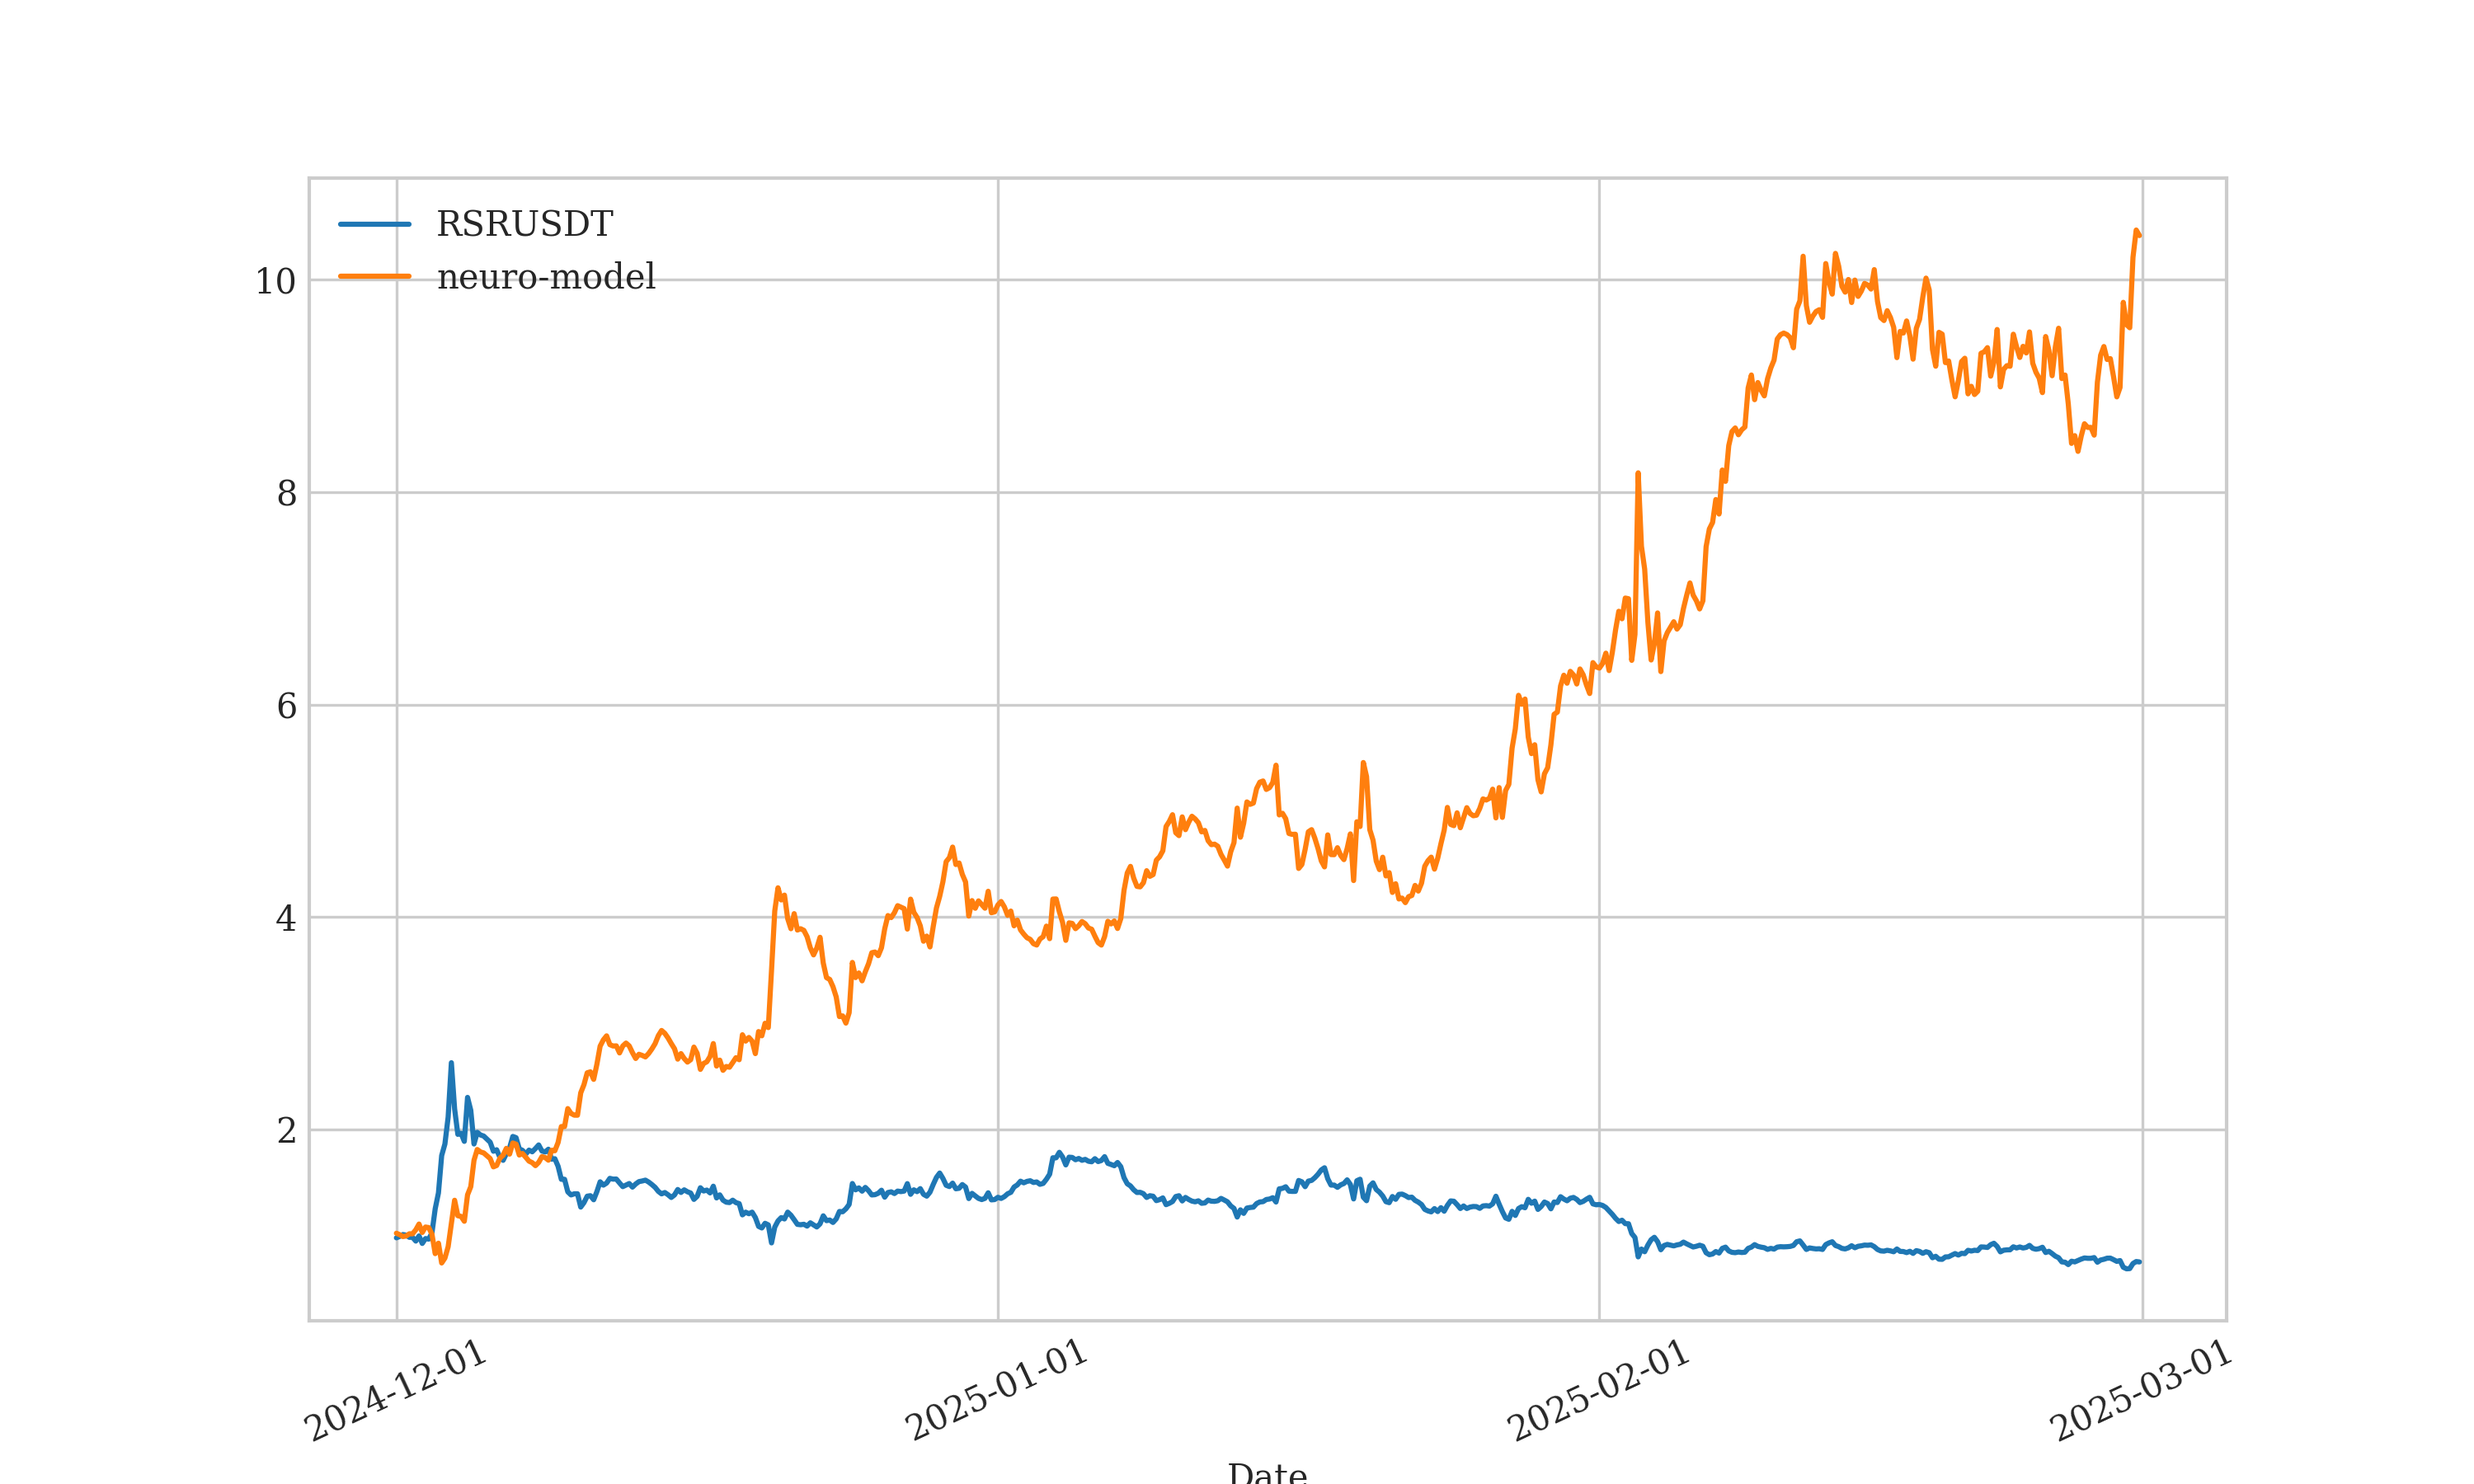
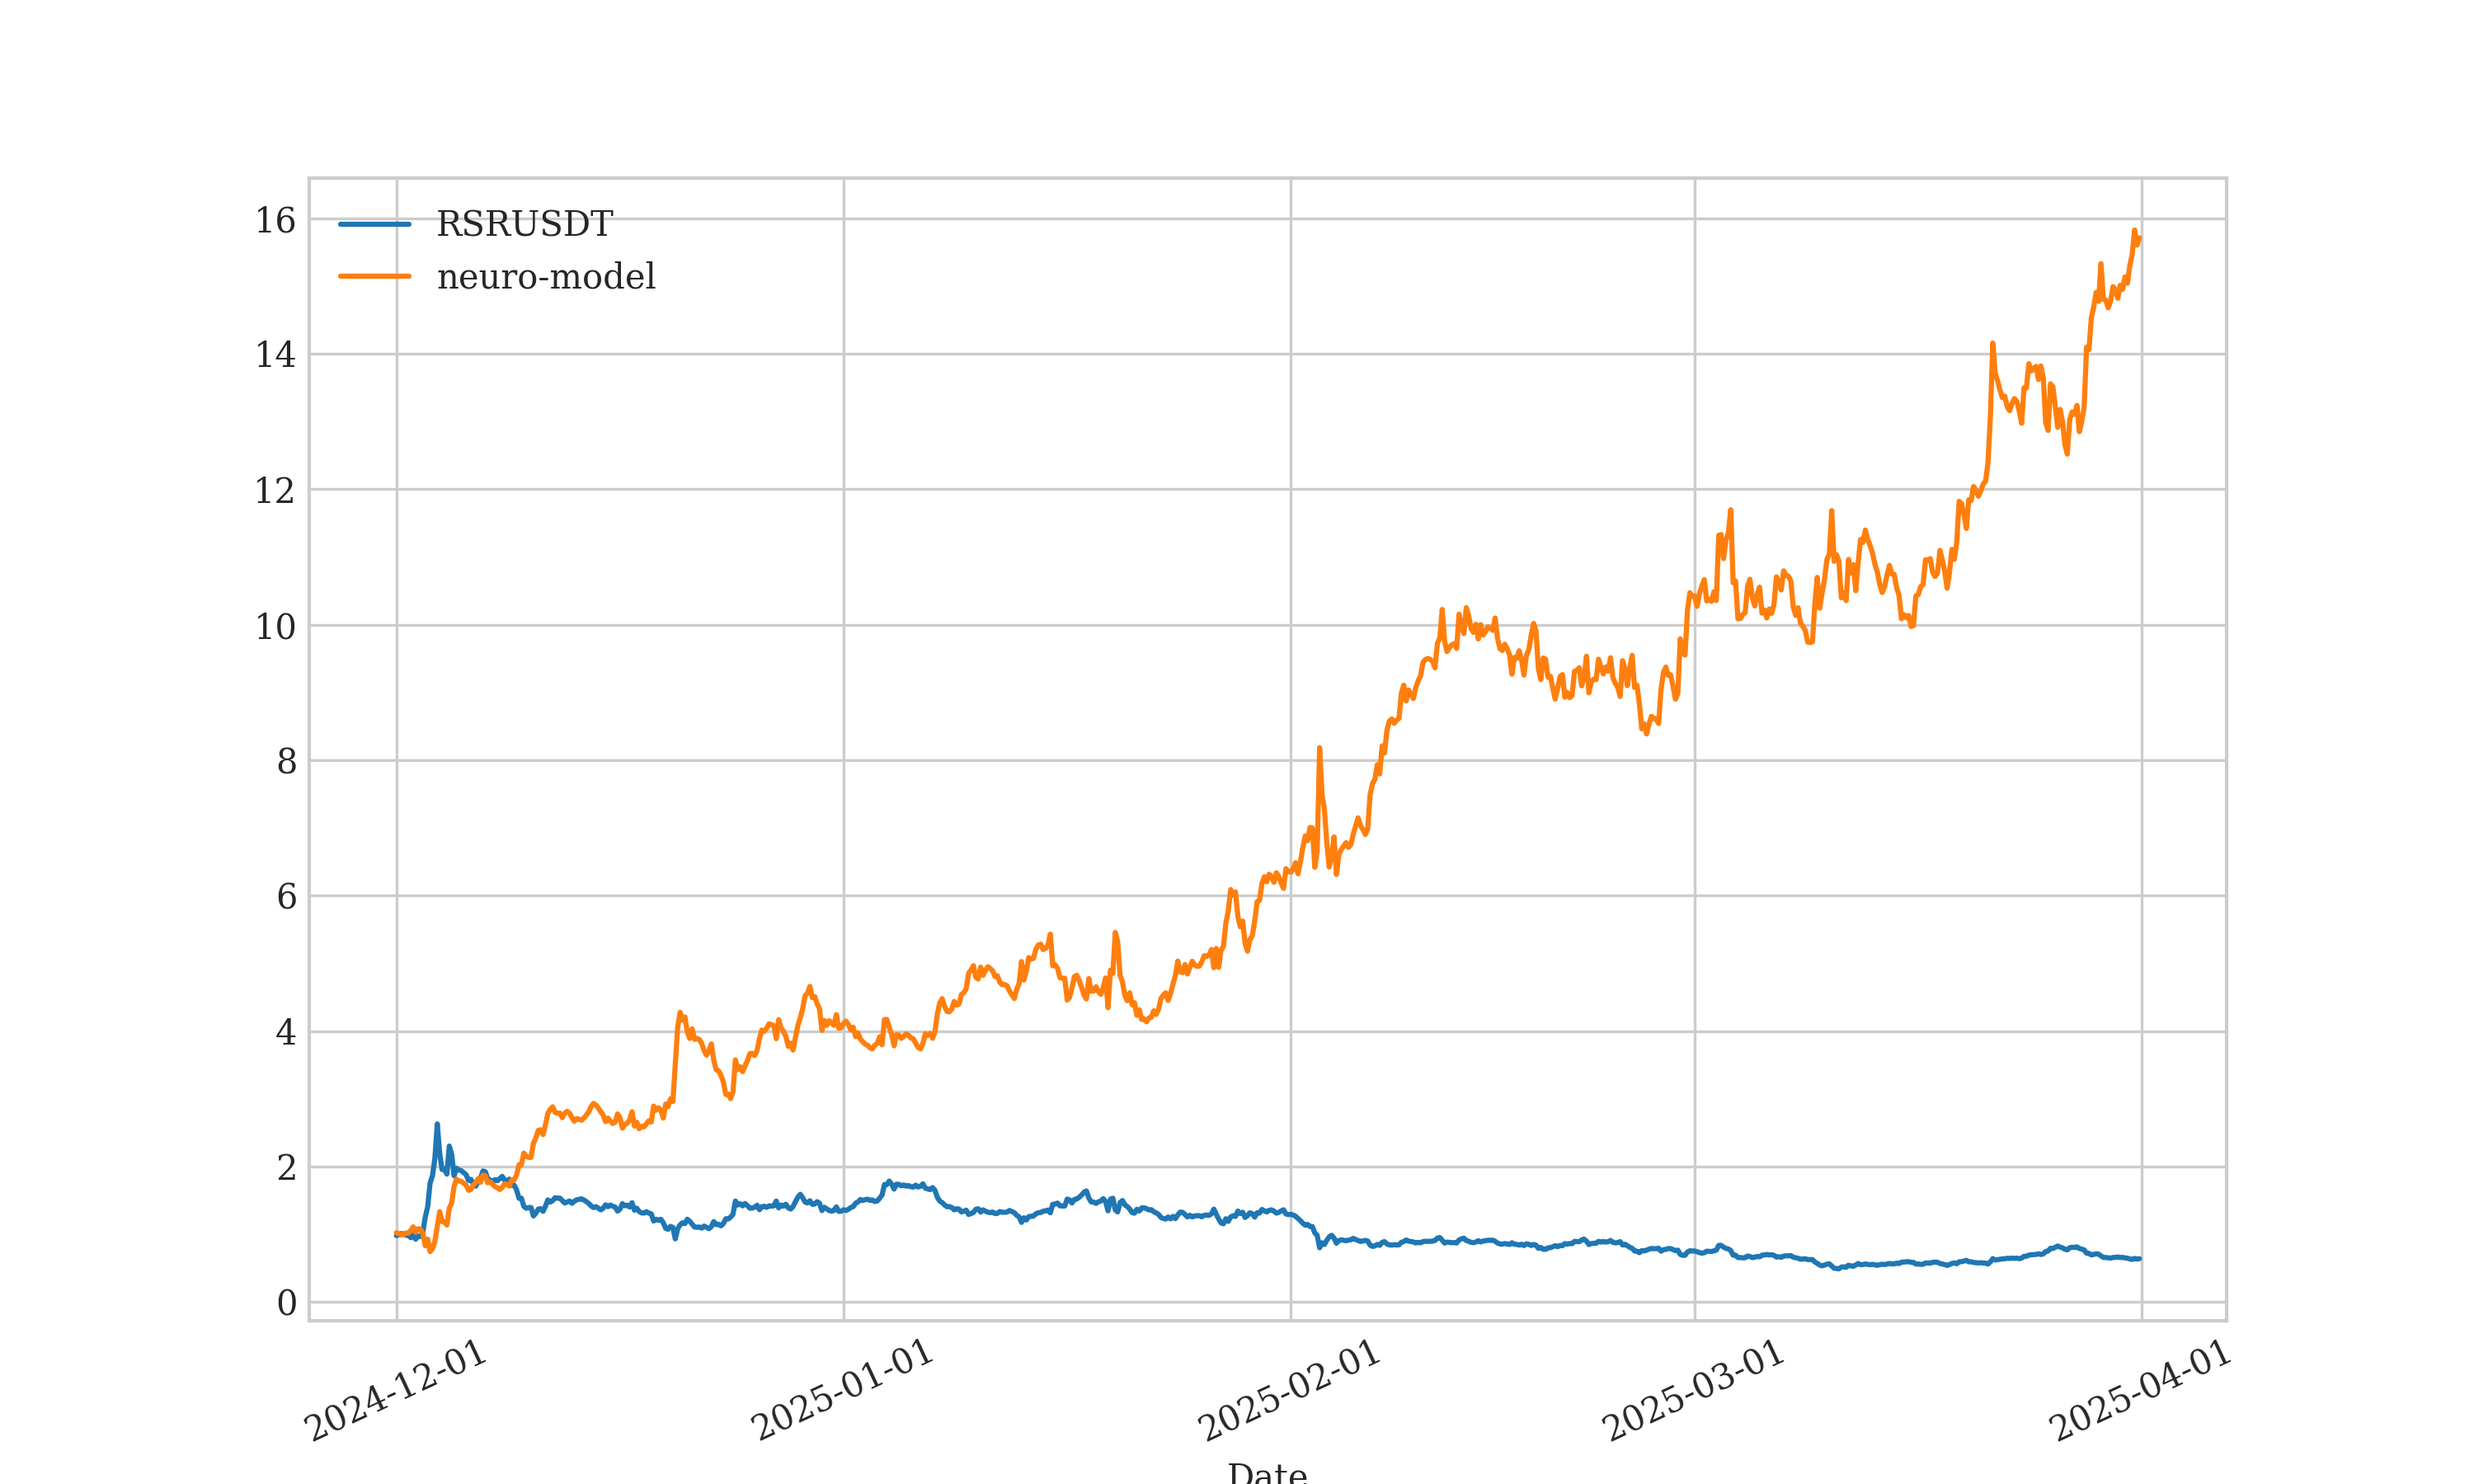
performance update, March 2025

diff --git a/PERFORMANCE.md b/PERFORMANCE.md
@@ -4,7 +4,7 @@ _Note: Performance does not include commissions_
 
 | Model                       | RSRUSDT-4h/2024-11-23 | RSRUSDT-4h/2025-03-15 |
 |-----------------------------|-----------------------|-----------------------|
-|                             | [Performance Chart](/models/RSRUSDT-4h/2024-11-23/Aug24-Feb25_performance.png) | [Performance Chart](/models/RSRUSDT-4h/2025-03-15/performance.png) |
+|                             | [Performance Chart](/models/RSRUSDT-4h/2024-11-23/performance.png) | [Performance Chart](/models/RSRUSDT-4h/2025-03-15/performance.png) |
 | Aug 24                      | +77%                  |                       |
 | Sep 24                      | +48%                  |                       |
 | Oct 24                      | +117%                 |                       |
@@ -12,6 +12,7 @@ _Note: Performance does not include commissions_
 | Dec 24                      | +135%                 | +304%                 |
 | Jan 25                      | -20%                  | +56%                  |
 | Feb 25                      | +15%                  | +59%                  |
+| Mar 25                      | -4%                   | +50%                  |
 
 
 ---
@@ -22,15 +23,19 @@ _Note: Performance does not include commissions_
 
 | Model                       | VETUSDT-12h/2025-01-31 |
 |-----------------------------|------------------------|
+|                             | [Performance Chart](/models/VETUSDT-12h/2025-01-31/performance.png) |
 | Oct 24                      | +11%                   |
 | Nov 24                      | +39%                   |
 | Dec 24                      | +171%                  |
 | Jan 25                      | +19%                   |
 | Feb 25                      | +66%                   |
+| Mar 25                      | -21%                   |
 
-[October 2024 - February 2025 Performance Chart](/models/VETUSDT-12h/2025-01-31/Oct24-Feb25_performance.png)
+
 
 ---
+
+
 
 ## VETUSDT-4h
 
@@ -38,14 +43,16 @@ _Note: Performance does not include commissions_
 
 | Model                       | VETUSDT-4h/2024-12-05 |
 |-----------------------------|-----------------------|
+|                             | [Performance Chart](/models/VETUSDT-4h/2024-12-05/performance.png) |
 | Sep 24                      | +27%                  |
 | Oct 24                      | +15%                  |
 | Nov 24                      | +45%                  |
 | Dec 24                      | +18%                  |
 | Jan 25                      | +68%                  |
 | Feb 25                      | +75%                  |
+| Mar 25                      | -3%                   |
 
-[September 2024 - February 2025 Performance Chart](/models/VETUSDT-4h/2024-12-05/Sep24-Feb25_performance.png)
+
 
 ---
 
@@ -55,7 +62,7 @@ _Note: Performance does not include commissions_
 
 | Model                       | ZRXUSDT-4h/2024-11-18 | ZRXUSDT-4h/2025-03-04 | 
 |-----------------------------|-----------------------|-----------------------|
-|                             | [Performance Chart](/models/ZRXUSDT-4h/2024-11-18/Aug24-Feb25_performance.png) | [Performance Chart](/models/ZRXUSDT-4h/2025-03-04/performance.png) |
+|                             | [Performance Chart](/models/ZRXUSDT-4h/2024-11-18/performance.png) | [Performance Chart](/models/ZRXUSDT-4h/2025-03-04/performance.png) |
 | Aug 24                      | +46%                  |                       |
 | Sep 24                      | -10%                  |                       |
 | Oct 24                      | +29%                  |                       |
@@ -63,7 +70,7 @@ _Note: Performance does not include commissions_
 | Dec 24                      | +26%                  | +129%                 |
 | Jan 25                      | +9%                   | +31%                  |
 | Feb 25                      | +16%                  | +43%                  |
-
+| Mar 25                      | +40%                  | 0                     |
 
 
 
